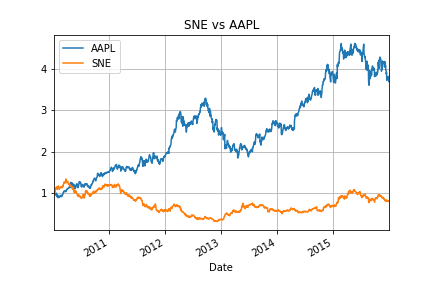
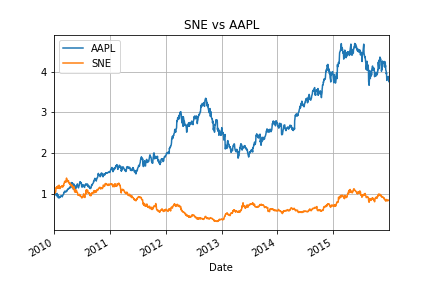
update pandas datareader

diff --git a/notebook/pandas_datareader.py b/notebook/pandas_datareader.py
@@ -1,0 +1,111 @@
+import pandas_datareader.data as web
+import datetime
+
+start = datetime.datetime(2010, 1, 1)
+end = datetime.datetime(2015, 12, 31)
+f = web.DataReader('SNE', 'yahoo', start, end)
+print(f)
+#                  Open       High        Low      Close  Adj Close   Volume
+# Date                                                                      
+# 2010-01-04  29.520000  30.180000  29.500000  30.020000  30.020000   988800
+# 2010-01-05  29.719999  29.930000  29.500000  29.879999  29.879999   567800
+# 2010-01-06  29.879999  29.950001  29.660000  29.850000  29.850000   468200
+# 2010-01-07  29.740000  29.870001  29.590000  29.799999  29.799999   645300
+# 2010-01-08  30.040001  30.469999  29.930000  30.410000  30.410000   574100
+# ...               ...        ...        ...        ...        ...      ...
+# 2015-12-24  24.580000  24.780001  24.570000  24.700001  24.700001   467400
+# 2015-12-28  24.709999  24.790001  24.530001  24.670000  24.670000   590100
+# 2015-12-29  24.860001  24.900000  24.680000  24.830000  24.830000   657600
+# 2015-12-30  24.780001  24.900000  24.700001  24.719999  24.719999   344900
+# 2015-12-31  24.670000  24.770000  24.510000  24.610001  24.610001   688900
+# [1511 rows x 6 columns]
+
+f = web.DataReader(['SNE', 'AAPL'], 'yahoo', start, end)
+print(f['Adj Close'])
+#                   AAPL        SNE
+# Date                             
+# 2015-12-31  101.703697  24.610001
+# 2015-12-30  103.694107  24.719999
+# 2015-12-29  105.066116  24.830000
+# 2015-12-28  103.210999  24.670000
+# 2015-12-24  104.380112  24.700001
+# ...                ...        ...
+# 2010-01-08   27.244156  30.410000
+# 2010-01-07   27.064222  29.799999
+# 2010-01-06   27.114347  29.850000
+# 2010-01-05   27.552608  29.879999
+# 2010-01-04   27.505054  30.020000
+# [1511 rows x 2 columns]
+
+print(f)
+# <class 'pandas.core.panel.Panel'>
+# Dimensions: 6 (items) x 1511 (major_axis) x 2 (minor_axis)
+# Items axis: Adj Close to Volume
+# Major_axis axis: 2015-12-31 00:00:00 to 2009-12-31 00:00:00
+# Minor_axis axis: AAPL to SNE
+
+import matplotlib.pyplot as plt
+
+f['Adj Close']['SNE'] /= f['Adj Close']['SNE'][-1]
+f['Adj Close']['AAPL'] /= f['Adj Close']['AAPL'][-1]
+f['Adj Close'].plot(title='SNE vs AAPL', grid=True)
+# plt.show()
+plt.savefig('data/dst/pandas-datareader-yahoo.png')
+
+# ![pandas-datareader-yahoo.png](data/dst/pandas-datareader-yahoo.png)
+
+from pandas_datareader import wb
+
+f = wb.download(indicator='SP.POP.TOTL', country=['JP', 'US'],
+                start=1960, end=2014)
+print(f)
+#                     SP.POP.TOTL
+# country       year             
+# Japan         2014    127276000
+#               2013    127445000
+#               2012    127629000
+#               2011    127833000
+#               2010    128070000
+# ...                         ...
+# United States 1989    246819000
+#               1988    244499000
+#               1987    242289000
+# ...                         ...
+#               1962    186538000
+#               1961    183691000
+#               1960    180671000
+# [110 rows x 1 columns]
+
+print(wb.search('gdp.*capita.*const').iloc[:, :2])
+#                         id                                               name
+# 685     6.0.GDPpc_constant  GDP per capita, PPP (constant 2011 internation...
+# 8086        NY.GDP.PCAP.KD                 GDP per capita (constant 2010 US$)
+# 8088        NY.GDP.PCAP.KN                      GDP per capita (constant LCU)
+# 8090     NY.GDP.PCAP.PP.KD  GDP per capita, PPP (constant 2011 internation...
+# 8091  NY.GDP.PCAP.PP.KD.87  GDP per capita, PPP (constant 1987 internation...
+
+f = wb.download(indicator='SP.POP.TOTL', country=['JP', 'US'],
+                start=1960, end=2014)
+f2 = f.unstack(level=0)
+print(f2)
+#         SP.POP.TOTL              
+# country       Japan United States
+# year                             
+# 1960       92500572     180671000
+# 1961       94943000     183691000
+# 1962       95832000     186538000
+# 1963       96812000     189242000
+# 1964       97826000     191889000
+# ...                           ...
+# 2010      128070000     309348193
+# 2011      127833000     311663358
+# 2012      127629000     313998379
+# 2013      127445000     316204908
+# 2014      127276000     318563456
+
+f2.columns = ['Japan', 'United States']
+f2.plot(grid=True)
+# plt.show()
+plt.savefig('data/dst/pandas-datareader-wb.png')
+
+# ![pandas-datareader-wb.png](data/dst/pandas-datareader-wb.png)
